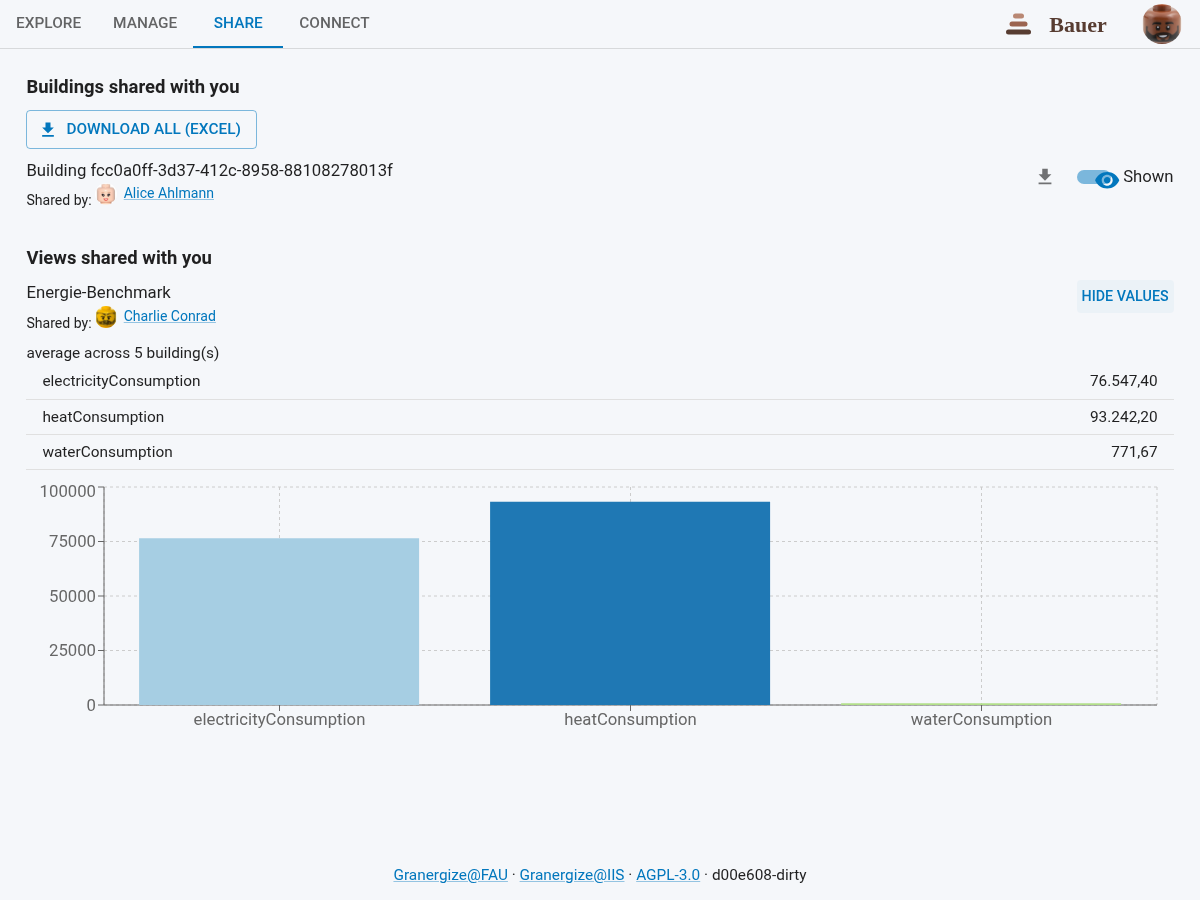
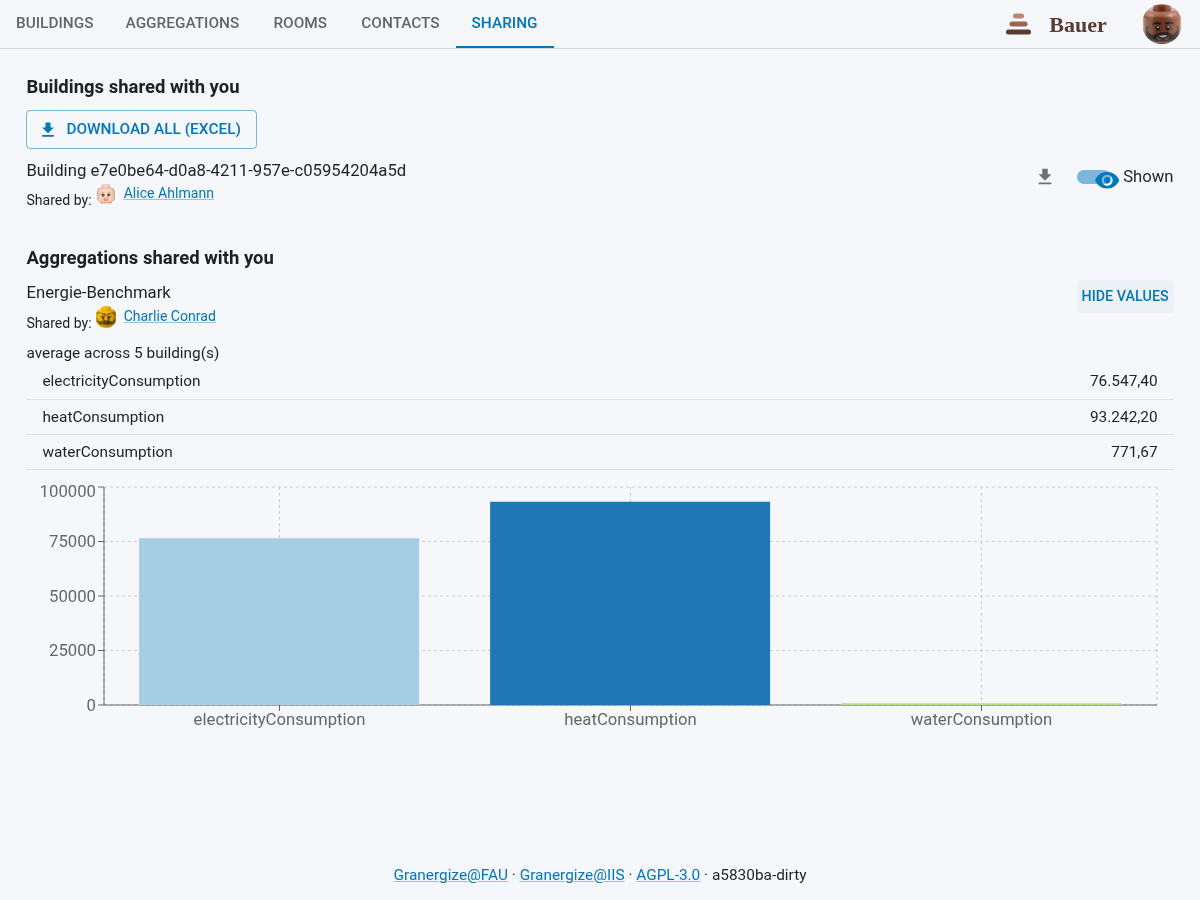
handbuch update

diff --git a/test/e2e/support/screenshots.spec.ts b/test/e2e/support/screenshots.spec.ts
@@ -203,15 +203,25 @@ test.describe("handbuch screenshots", () => {
     }
 
     // --- Meet: be in a room with a role (seeds an empty Pod so the rest of the
-    //     app has something to show) ---
+    //     app has something to show). The redesign split rooms into the Rooms
+    //     FINDER (`/rooms`, lists the rooms you know) and the standalone ROOM
+    //     PAGE (`/room/:uri`, where invite/roles/members/leave live). Open the
+    //     finder; enter the active room if one exists, else host a fresh one
+    //     ("Host a data room" navigates straight onto the new room's page). The
+    //     room.png figure now captures that room page (with a role assigned). ---
     await page.getByRole("tab", { name: "Rooms" }).click();
-    const leave = page.getByRole("button", { name: /leave data room/i });
-    if (!(await leave.count())) {
+    const activeRoomRow = page.locator("li", { hasText: /active/ }).first();
+    if (await activeRoomRow.count()) {
+      await activeRoomRow.getByRole("link").first().click();
+    } else {
       await page.getByRole("button", { name: /host a data room/i }).click();
-      await expect(leave).toBeVisible({ timeout: 30_000 });
     }
+    // Landed on the standalone room page (no app-shell tabs): the roles section
+    // appears once membership has folded.
+    await expect(page).toHaveURL(/\/room\//, { timeout: 30_000 });
     // Assign the User role (MUI multi-select: open, tick, close, save).
     const roleSelect = page.getByRole("combobox", { name: "My role(s)" });
+    await expect(roleSelect).toBeVisible({ timeout: 30_000 });
     await roleSelect.click();
     await page.getByRole("option", { name: "User" }).click();
     await page.keyboard.press("Escape");
@@ -224,6 +234,12 @@ test.describe("handbuch screenshots", () => {
     await page.waitForTimeout(1000);
     await page.evaluate(() => globalThis.scrollTo(0, 0));
     await shot(page, "room.png");
+    // Back to the app shell (the room page is a standalone route without tabs) so
+    // the onboarding "Add examples" banner (on the Buildings Map) is reachable.
+    await page.goto("/");
+    await expect(page.getByRole("tab", { name: "Buildings" }))
+      .toBeVisible({ timeout: 30_000 });
+    await page.getByRole("button", { name: "Map", exact: true }).click();
 
     // Dismiss the "Roles updated" toast, then ACCEPT the fresh-Pod onboarding
     // banner's "Add examples": every figure is captured over the SAME four demo
@@ -318,11 +334,12 @@ test.describe("handbuch screenshots", () => {
     await page.getByRole("tab", { name: "Buildings" }).click();
     await page.getByRole("button", { name: "List" }).click();
     const dialog = page.getByRole("dialog");
-    // Wait for a per-building row action (only present once a building has
-    // loaded) so no figure captures a "Loading…" panel.
-    const shareAction = page.getByRole("button", { name: "Share building data" })
-      .first();
-    await shareAction.waitFor({ state: "visible", timeout: 60_000 });
+    // Wait for a building ROW to be present (only present once buildings have
+    // loaded) so no figure captures a "Loading…" panel. The redesign collapsed
+    // the per-row actions onto the building detail page, so the row itself —
+    // not a per-row "Share" action — is the loaded signal.
+    const firstRow = page.locator("li[data-building-id]").first();
+    await firstRow.waitFor({ state: "visible", timeout: 60_000 });
 
     // Add Building dialog — capture the one generic form, then close (the demo
     // buildings are the data; nothing is added manually).
@@ -332,33 +349,56 @@ test.describe("handbuch screenshots", () => {
     await shot(page, "add-building.png");
     await page.keyboard.press("Escape");
 
-    // Manage tab now lists the building with its per-row actions (edit / share /
-    // download / delete) — the subject of the sharing section. Wait for a row's action
-    // to be present so the screenshot isn't a "Loading…" panel.
-    await expect(shareAction).toBeVisible({ timeout: 60_000 });
+    // --- The building detail page (share-building.png): the redesign moved the
+    //     per-building actions off the finder row onto the standalone
+    //     `/building/:id` page. Navigate to the first building's page and capture
+    //     it showing the SharingSection "Share" affordance — the subject of the
+    //     sharing section. Resolve the id from the first row's data-building-id
+    //     while still on the list, then route to the page. ---
+    const firstRowId = await page.locator("li[data-building-id]").first()
+      .getAttribute("data-building-id");
+    await page.goto(buildingRoute("building", firstRowId));
+    await expect(page.getByRole("heading", { name: "Sharing" }))
+      .toBeVisible({ timeout: 60_000 });
+    await expect(page.getByRole("button", { name: "Share", exact: true }))
+      .toBeVisible({ timeout: 30_000 });
+    await page.waitForLoadState("networkidle").catch(() => {});
     await page.waitForTimeout(500);
     await page.evaluate(() => globalThis.scrollTo(0, 0));
     await shot(page, "share-building.png");
 
-    // --- Manage row actions: a focused shot of one building row showing the
-    //     per-building actions (edit / files / energy year / share / download /
-    //     delete) — the subject of "Gebäude bearbeiten, Dateien … und löschen" ---
-    const buildingRow = page.locator("li").filter({
-      has: page.getByRole("button", { name: "Share building data" }),
-    }).first();
-    await buildingRow.scrollIntoViewIfNeeded().catch(() => {});
+    // --- Building-page actions (manage-actions.png): the redesign collapsed the
+    //     finder rows to navigate+delete and moved the per-building actions
+    //     (edit master data / Files / energy / Share / download) onto the
+    //     building detail page header + sections — the subject of "Gebäude
+    //     bearbeiten, Dateien … und löschen". Capture the same building page
+    //     showing the header download action and the section affordances. ---
+    await expect(
+      page.getByRole("button", { name: "Download building data (Excel)" }),
+    ).toBeVisible({ timeout: 30_000 });
+    await page.evaluate(() => globalThis.scrollTo(0, 0));
     await page.waitForTimeout(300);
-    await shotOf(buildingRow, "manage-actions.png");
+    await shot(page, "manage-actions.png");
+    // Back to the app shell (the building page is a standalone route without tabs).
+    await page.goto("/");
+    await expect(page.getByRole("tab", { name: "Buildings" }))
+      .toBeVisible({ timeout: 30_000 });
 
     // --- Energy-year dialog: the per-year consumption form plus the "Stored
     //     years" read-back table, opened on the Nordostpark demo — its table is
     //     populated out of the box (actual 2022–2024 AND the planned 2024, so
-    //     the figure shows the Soll-Ist pair and the building-name header). ---
-    const nordostparkRow = page.locator("li").filter({ hasText: "Nordostpark" })
-      .first();
+    //     the figure shows the Soll-Ist pair and the building-name header). The
+    //     redesign moved energy entry off the finder row onto the building's
+    //     OBSERVATION page (`/observation/:id`); resolve the Nordostpark id from
+    //     the list, route there, click "Edit energy years". ---
+    await page.getByRole("tab", { name: "Buildings" }).click();
+    await page.getByRole("button", { name: "List" }).click();
+    const nordostparkRow = page.locator("li[data-building-id]")
+      .filter({ hasText: "Nordostpark" }).first();
     await expect(nordostparkRow).toBeVisible({ timeout: 30_000 });
-    await nordostparkRow
-      .getByRole("button", { name: "Add or edit energy year" }).click();
+    const nordId = await nordostparkRow.getAttribute("data-building-id");
+    await page.goto(buildingRoute("observation", nordId));
+    await page.getByRole("button", { name: "Edit energy years" }).click();
     await expect(page.getByRole("dialog")).toBeVisible({ timeout: 10_000 });
     // The stored-years table loads the datasets — wait for the planned 2024 row.
     await expect(
@@ -368,6 +408,10 @@ test.describe("handbuch screenshots", () => {
     await shot(page, "energy-year.png");
     await page.getByRole("button", { name: "Close" }).click();
     await expect(page.getByRole("dialog")).toBeHidden({ timeout: 10_000 });
+    // /observation/:id is a standalone route (no app-shell tabs) — return to the shell.
+    await page.goto("/");
+    await expect(page.getByRole("tab", { name: "Buildings" }))
+      .toBeVisible({ timeout: 30_000 });
 
     // --- Aggregations: aggregations (Create aggregation lives here, with buildings) ---
     await page.getByRole("tab", { name: "Aggregations" }).click();
@@ -548,14 +592,16 @@ test.describe("handbuch screenshots", () => {
       // B's authoritative WebID is discovered after login (not built from creds).
       const bWebId = await webIdOf(b.page);
 
-      // A shares its first building by B's WebID (mirrors manage.ts shareByWebId,
-      // but targets the first row so it doesn't depend on a known street).
+      // A shares its first building by B's WebID. The redesign moved sharing off
+      // the finder row onto the building page's SharingSection: resolve the first
+      // row's id, route to /building/:id, click the section's "Share" button,
+      // then drive the same by-WebID dialog flow (mirrors manage.ts shareByWebId).
       await page.getByRole("tab", { name: "Buildings" }).click();
       await page.getByRole("button", { name: "List" }).click();
-      const aRow = page.locator("li").filter({
-        has: page.getByRole("button", { name: "Share building data" }),
-      }).first();
-      await aRow.getByRole("button", { name: "Share building data" }).click();
+      const aRowId = await page.locator("li[data-building-id]").first()
+        .getAttribute("data-building-id");
+      await page.goto(buildingRoute("building", aRowId));
+      await page.getByRole("button", { name: "Share", exact: true }).click();
       const shareDialog = page.getByRole("dialog");
       await expect(shareDialog).toBeVisible({ timeout: 10_000 });
       await shareDialog.getByRole("button", { name: /by webid/i }).click();

diff --git a/test/e2e/bench/room-render.spec.ts b/test/e2e/bench/room-render.spec.ts
@@ -28,17 +28,18 @@ const CONTROL = `http://localhost:${LOCAL_CSS_CONTROL_PORT}`;
 const ACC = account("A");
 
 /**
- * The seeded synthetic member rows in the active room's expanded box. A member row
- * renders as an AgentLabel — the WebID is the contact-detail link's HREF, while the
- * visible text is the resolved name (for these unresolvable synthetic WebIDs, the
- * `#me` fragment fallback) — so the bench marker is matched in the href, not the
- * text. Counts exactly the N seeded members; A's own (auto-joined) row doesn't
- * match. `:not(:has(ul))` keeps it to the leaf member `<li>`s: the active room's
- * OUTER row is also an `<li>` and wraps the members `<ul>`, so it contains the
- * same links and would otherwise be miscounted.
+ * The seeded synthetic member rows in the room PAGE's Members section. A member
+ * row renders as an AgentLabel — the WebID is the contact-detail link's HREF
+ * (`/contact/<url-encoded-webid>`, which still contains the un-escaped
+ * `bench.example` host marker), while the visible text is the resolved name (for
+ * these unresolvable synthetic WebIDs, the `#me` fragment fallback) — so the
+ * bench marker is matched in the href, not the text. Counts exactly the N seeded
+ * members; A's own (auto-joined) row doesn't match. The redesign moved the
+ * member list off the Rooms finder onto the standalone room page
+ * (`/room/:uri`), so the bench navigates into the active room before counting.
  */
 const memberRows = (page: Page) =>
-  page.locator('li:not(:has(ul)):has(a[href*="bench.example"])');
+  page.locator('li:has(a[href*="bench.example"])');
 
 test.describe.configure({ mode: "serial" });
 
@@ -70,10 +71,19 @@ test.describe("room-render benchmark", () => {
 
       // Cold load: a full navigation drops the in-memory query cache, so the app
       // refetches + folds the room log + re-renders from scratch. Time from
-      // navigation to the member list reflecting all N seeded members.
+      // navigation to the member list reflecting all N seeded members. The
+      // redesign split the member list onto the standalone room page: open the
+      // Rooms finder, follow the active room's row link into `/room/:uri` (the
+      // page enters the room and folds its membership on mount), then count.
       const t0 = Date.now();
       await page.goto("/");
       await page.getByRole("tab", { name: "Rooms" }).click();
+      // The active room row carries an "active" badge; its title link opens the
+      // room page. There is exactly one seeded (hosted-by-you, active) room.
+      const activeRow = page.locator("li", { hasText: /active/ }).first();
+      await expect(activeRow).toBeVisible({ timeout: 120_000 });
+      await activeRow.getByRole("link").first().click();
+      await expect(page).toHaveURL(/\/room\//, { timeout: 30_000 });
       await expect(memberRows(page)).toHaveCount(n, { timeout: 120_000 });
       const ms = Date.now() - t0;
 

diff --git a/CHANGELOG.md b/CHANGELOG.md
@@ -3,6 +3,7 @@
 All notable changes to the Granergize WebApp project will be documented in this file.
 
 ## [2026-06-14]
+- **Redesign (WIP): handbuch figures reshot + bench specs back to green under the new IA.** The remaining on-demand suites carried the same removed-row-affordance drift the videos did. **Bench** (`test/e2e/bench`): `view-roundtrip` + `manage-render` pass unchanged (their affordances survived), and `room-render` was re-routed — rooms split into the Rooms finder (`/rooms`, lists rooms) and the standalone room page (`/room/:uri`, where members + roles now live), so it now follows the room link into the page and counts member rows there. **Handbuch figures** (`support/screenshots.spec.ts`, one big `capture` test): the figures that depicted gone per-row actions were reshot at their new homes, keeping filenames — `share-building.png` + `manage-actions.png` → the `/building/:id` detail page (SharingSection "Share" + the moved header actions), `energy-year.png` → the `/observation/:id` page's "Edit energy years" dialog, `room.png` → the standalone room page (role select + save), and the `shared-with-you.png` A→B share → the building page's SharingSection. Verified: bench project green (CSS), support project green (figures regenerated), deno check + re-grep clean. **Note for the handbuch prose pass:** `share-building.png` and `manage-actions.png` now capture the same screen (both moved onto the building page) — the German text distinguishing "the list share action" vs "a row's action buttons" needs reframing (and the figures may want merging). German prose under `docs/` was deliberately left untouched.
 - **Redesign (WIP): the handbuch walkthrough videos record again end-to-end.** Running `deno task videos` after the tab migration surfaced that the three walkthroughs (soll-ist, vertrieb, benchmark) still drove pre-redesign row-level affordances the master-detail rework removed — the per-row "Add or edit energy year" and "Share building data" buttons. Reworked each to the detail-page flows: energy entry → navigate to the building's observation page + "Edit energy years"; sharing → open the building's page (via its name link / route) + the SharingSection "Share" button; the payoff caption de-referenced the gone "Explore" tab. With the seed-container fix below, all three specs record green and `deno task videos` produces the final MP4s (soll-ist; vertrieb = A+B perspective clips; benchmark = A+C+payoff clips). Artifacts stay uncommitted (hosting is still an open decision).
 - **Fix: the seed helper provisions observation-year containers up front (concurrent-writer 409).** `seedBuildings` (test/bench/seed.ts, used by the seeded handbuch videos / bench / headless harness) pre-created `buildings/` once to avoid a create race, but under time-first storage every building's annual energy also writes to the SHARED `observations/{year}/` container — so seeding n>1 buildings raced to create each year container and the loser got HTTP 409 (it broke `deno task videos` at the seed step). Now the observations root + each annual year container are pre-created once before the pooled writes, mirroring the `buildings/` fix; the per-call ensure no-ops thereafter.
 - **Redesign (WIP): migrated the figure/video/benchmark specs to the finder top-nav.** The non-active `videos/`/`bench/`/`support` (handbuch) specs still clicked the gone `Manage`/`Explore` tabs; pointed each at the new finders. Not a name swap — the old `Manage`/`Explore` tabs showed the list/map directly, but the new **Buildings** tab lands on Map with a Map⇄List toggle, so each site became Buildings-tab + the right sub-toggle (mirroring `openBuildingsList`/`openBuildingsMap`), or the **Aggregations** tab where the click preceded aggregation work — decided per-site by the following context (building row / `data-building-id` / "Share building data" → List; create-aggregation / aggregation row → Aggregations; `.leaflet-marker-icon`/map → Map; bare readiness checks → just the tab-visible assertion). Files: `videos/{vertrieb,benchmark,soll-ist}.spec.ts`, `bench/{view-roundtrip,manage-render}.spec.ts`, `support/screenshots.spec.ts` (+ a German caption "im Manage-Tab" → "in der Gebäudeliste"). Verified by `deno check` on all six + a re-grep confirming no `Manage`/`Explore` tab refs remain; the Buildings-tab + toggle nav pattern itself is already proven green by the active solo suite, so full figure/video regeneration wasn't run during this step (it was run next — see above — which surfaced deeper redesign drift in the video walkthroughs). With this, **every e2e spec — active and on-demand — is off the old tab names.**
